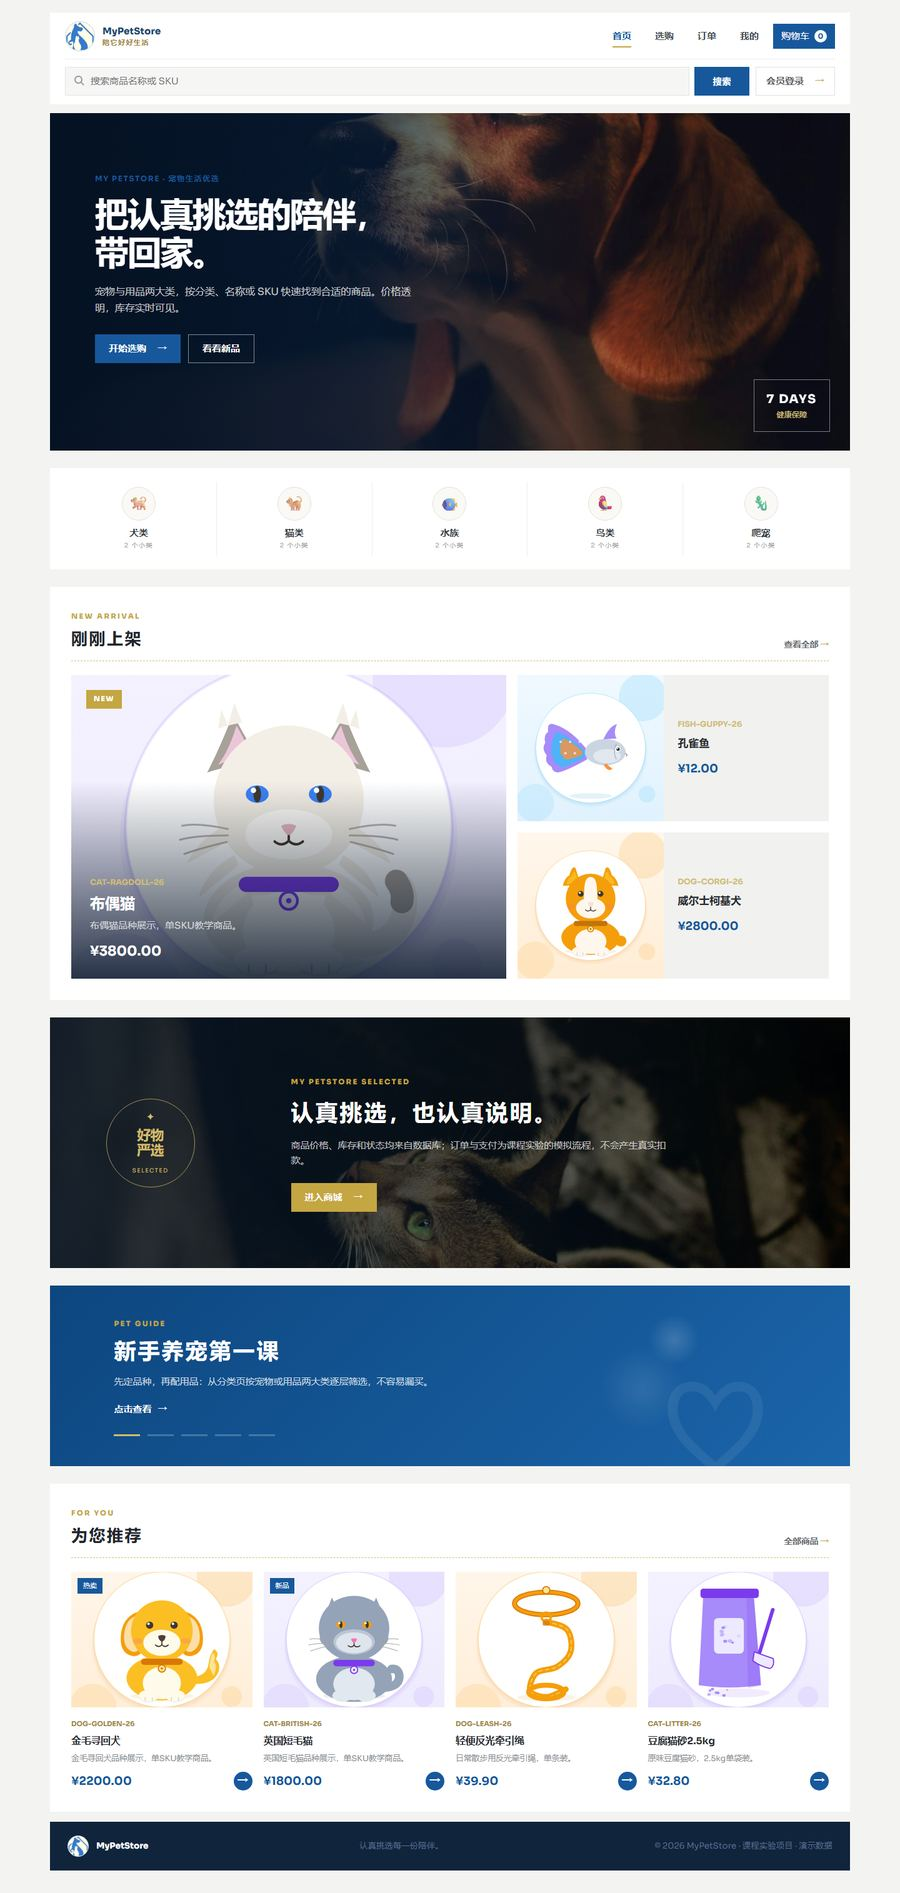
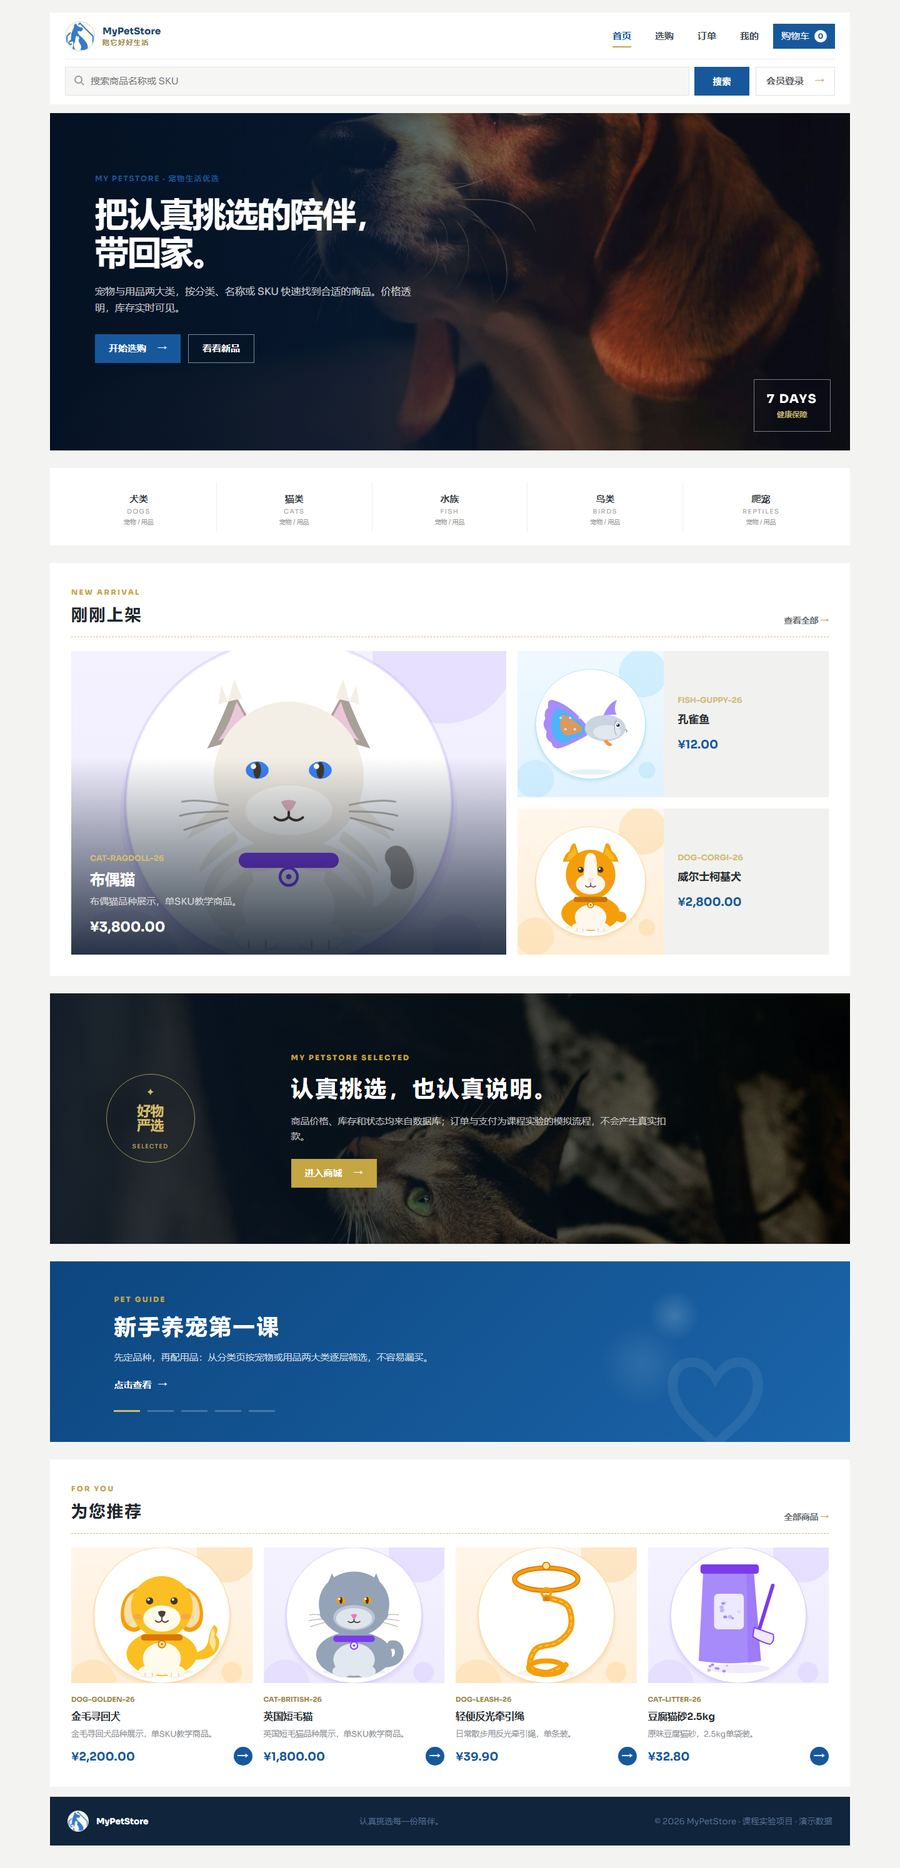
docs: 补充商品模块视频对照与集成测试说明
- 新增 docs/商品模块对照.md：三个视频的结构、五条商品查询规则、
  Main 五个小任务与本工程的逐条对照，以及有意保留的差异
- 验证记录增加 2.3 节：19 个 *IT 集成测试的清单、运行命令与通过结果
- 设计说明 5.1 补充商品模块规则落地说明；需求完成清单与视觉验收更新
  商品详情路由为 /product?id=（兼容 /product/{id}）
- README 补充集成测试命令与说明；docs/README 索引新增对照文档
- 新增第 11 条视觉问题记录：分类条 emoji 属伪造数据，改为真实 code 与二级分类名
- 更新首页截图（分类条与价格格式变化）；.gitignore 忽略 rendered* 原始截图

diff --git a/docs/商品模块对照.md b/docs/商品模块对照.md
@@ -1,0 +1,75 @@
+# 商品模块视频对照
+
+> 视频：`实验一-MyPetstore用户端-商品模块01/02/03.mp4`（共 56 分钟，4K 录屏）。
+> 视频没有字幕轨，也没有配套讲义，本文的"要求"来自画面里的幻灯片原文与老师的提示词。
+> 抽取方式：无头浏览器按时间轴抽帧 + 感知哈希去重（276 帧 → 141 个关键帧），逐帧阅读后整理。
+
+## 1. 视频讲了什么
+
+| 视频 | 内容 | 幻灯片 |
+| --- | --- | --- |
+| 01（11:45） | 三个页面（Main / Category / Product）的定位、三张表结构、五条商品查询规则、Main 的五个小任务 | 01–05 / 10 |
+| 02（12:52） | Main 落地：路由约定、静态资源路径、`*IT` 集成测试约定、实体与 Mapper 映射 | 05 / 10（重现） |
+| 03（31:39） | Main 实操：`ProductController#main`、`Main.html` 改造、分类导航 Service、新品/精选查询与 IT、MyBatis SQL 日志 | 05 / 10（重现） |
+
+**一个重要事实**：视频里的 `Category`、`Product` 页面演示是老师机器上用 `file://` 打开的
+**参考 UI 原型**（`MyPetstore用户端参考UI/HTML/*.html`），不是运行中的工程页面。
+幻灯片第 2 页明确写着"**功能以本节规则为准，原型中的占位内容将逐步调整**"，
+所以判定标准是第 4 页的五条查询规则，而不是原型里的每一个按钮。
+
+## 2. 五条商品查询规则 → 实现对照
+
+| # | 规则（幻灯片原文） | 实现 | 位置 |
+| --- | --- | --- | --- |
+| 1 | 游客可以浏览，本模块只读取数据，加入购物车留到购物车模块 | 商品/分类/详情路由都不在鉴权拦截名单内；`/cart/**`、`/orders/**` 等才要求登录 | `config/WebConfig`、`security/AuthInterceptor` |
+| 2 | 只展示上架商品，列表排除 DRAFT；访问不存在或下架商品给出不可用提示 | 列表 SQL 固定 `status='ON_SALE'`；详情对非上架商品抛 `NotFoundException`，由全局处理器渲染 404 页并显示"商品不存在或已下架。" | `ProductMapper.xml`、`ProductService#detail`、`GlobalExceptionHandler` |
+| 3 | 两级分类筛选：一级包含其下商品；二级入口默认选中对应类型，切换类型仍在所属一级范围内 | `search()` 命中二级分类时用 `typeOf()` 推出宠物/用品类型，再把 `categoryIds` 收敛到该一级分类下同类型的二级分类 | `ProductService#search`、`CategoryService#typeOf` |
+| 4 | 同一商品标识：首页、列表、详情统一用数据库商品 ID 关联，SKU 只用于展示 | 所有链接形如 `/product?id=<真实ID>`、`/category?categoryId=<真实ID>`；模板里不再出现 `?sku=` | `Main.html`、`Category.html`、`Cart.html`、`ViewOrder.html` |
+| 5 | 展示规则一致：零库存仍可展示；金额用人民币；推荐区按预定排序取上架商品 | 查询不过滤 `stock`；金额 `¥` + 两位小数 + 千分位；精选 `ORDER BY sort_order, id` | `ProductMapper.xml`、`MoneyFormatter` |
+
+## 3. Main 页五个小任务 → 实现对照
+
+| 任务 | 视频要求 | 实现 |
+| --- | --- | --- |
+| 01 实体、Mapper 与字段验证 | 映射 `Category`、`Product`，读真实记录核对字段 | `entity/Category`、`entity/Product`；`CategoryMapperIT`（5 例）、`ProductMapperIT`（4 例）连真实库核对字段映射 |
+| 02 分类导航 Service 与测试 | 一次查询，内存里组织一级 + 二级，禁止按父类逐个查询 | `CategoryService#all()` 一次 `selectAllOrdered()`，`ProductService#home()` 在内存里分组；`CategoryServiceIT` 4 例 |
+| 03 新品、精选分别查询与测试 | 新品最多 3 件（`created_at, id` 降序）；精选最多 4 件（`sort_order, id` 升序）；都只要上架商品 | `ProductMapper#selectHomeNew(3)`、`#selectHomeFeatured(4)`；`ProductServiceIT` 用 Mapper 全量读取在 Java 侧独立算期望值再比对 |
+| 04 Controller 与 Thymeleaf | 传 Model、循环渲染、处理空列表与缺图 | `HomeController#main` 传 `home`；`Main.html` 用 `th:each`/`th:if` 渲染，空列表整段不渲染，图片 `onerror` 回退 `/images/logo.png` |
+| 05 浏览器验收 | 核对数量、排序、图片、分类与商品链接 | 见 `docs/视觉验收.md` 与 `docs/screenshots/home.jpg` |
+
+## 4. 视频里的具体约定 → 本工程
+
+| 约定 | 视频原文/做法 | 本工程 |
+| --- | --- | --- |
+| 路由不带 `.html`、全小写 | `/main`、`/category`、`/product?id=` | 一致；`/`、`/index` 返回欢迎页 |
+| 商品详情用 ID 不用 SKU | "替换原 `?sku=`" | 主路由 `/product?id=`，同时保留 `/product/{id}` 兼容旧链接 |
+| 价格格式 | `¥` + 两位小数 + 千分位，`formatDecimal(...,'COMMA',...)` | `MoneyFormatter` 用 `Locale.ROOT` + `%,.2f`，输出 `¥3,800.00` |
+| 分类入口展示一级 + 二级 | `<b>一级名</b><small>CODE</small><small class="category-sub">宠物 / 用品</small>` | 同构：`node.category().name` / `.code` / `#strings.listJoin(children.![name], ' / ')` |
+| 不展示伪造内容 | 删除 NEW 静态角标、伪造 `<small>` 文案、卡片 `+` 加购、整个"本周热卖"区；"emoji 图标因 DB 无对应字段而移除" | 首页已无热卖区、无 NEW/热卖角标、无 `+`；分类条改为真实 `code` 与二级名称，删掉了硬编码 emoji 映射 |
+| 缺图兜底 | `onerror="this.onerror=null;this.src='/images/logo.png'"` | 首图/小卡/推荐卡都加了同样的 `onerror`，服务端另有 `coverImage == null` 兜底 |
+| MyBatis SQL 日志 | `mybatis-plus.configuration.log-impl=...Slf4jImpl` + `logging.level.org.csu.mypetstore.mapper=debug` | 写进 `application-dev.yaml` |
+| 集成测试命名 | `*IT` + `@SpringBootTest` + `@ActiveProfiles("dev")` + `@Transactional` 只读回滚 | `CategoryMapperIT`、`ProductMapperIT`、`CategoryServiceIT`、`ProductServiceIT`，共 19 例 |
+| 分层边界 | Controller 只"调 Service → 塞 Model → 返回视图名"，查询规则全在 Service | 一致：`HomeController` 只调用 `ProductService#home()` |
+
+## 5. 已知差异（有意保留）
+
+| 视频 | 本工程 | 原因 |
+| --- | --- | --- |
+| 只做 Main，明确"暂不实现 Category 筛选与 Product 详情" | 三个页面（含分类筛选、搜索、分页、详情相册）都已实现 | 实验一按 PRD 交付 P0 全部功能；视频是分阶段教学，Main 只是第一站 |
+| 包结构 `controller / entity / mapper / service` | `web / entity / mapper / service / security / config` | `web` 更贴切地表示"Web 层"，且本工程多了鉴权与 CSRF 过滤器；不影响分层语义 |
+| 登录路由 `/signon` | `/login` | 本工程登录还承担 `returnUrl` 回跳与 CSRF 校验 |
+| 老师现场把 `pets/`、`supplies/` 素材拷进 `static/images` | 素材已随仓库提供，且 40 张封面由 `scripts/generate_product_art.py` 生成 | 避免"两栏全破图"，可直接复现 |
+
+## 6. 复现验证
+
+```powershell
+# 只跑单元测试（不需要数据库）：43 个
+mvn -B -f MyPetStore-SSM\pom.xml test
+
+# 集成测试需要 3307 上的 MySQL 与演示数据：19 个
+$env:DB_PORT="3307"
+mvn -B -f MyPetStore-SSM\pom.xml test "-Dtest=CategoryMapperIT,ProductMapperIT,CategoryServiceIT,ProductServiceIT"
+```
+
+`*IT` 不在 Surefire 默认匹配范围内，所以 `mvn test` 不会因为缺少数据库而失败；
+这也正是视频里"IT 依赖真实外部数据库"的约定。

diff --git a/docs/需求完成清单.md b/docs/需求完成清单.md
@@ -1,4 +1,4 @@
-# 需求完成清单
+# 需求完成清单
 
 基线：`MyPetStore-PRD.pdf` V1.1；页面/参数/状态以 PRD 第 6、7 章为准。本表把需求映射到页面、核心代码与验证证据，便于验收时逐项定位。
 
@@ -16,7 +16,7 @@
 | FR-G-00 欢迎入口与通用展示 | `/`、`/index` | `web/HomeController#index`、`templates/index.html`、`fragments/layout.html` | MockMvc `HomeControllerTest`；手工访问 | P0 | 已实现/自动验证/手工验证 |
 | FR-G-01 首页 Main | `/main` | `HomeController#main`、`ProductService#home`、`templates/Main.html` | `HomeControllerTest`；手工验证分类/新品/精选 | P0 | 已实现/自动验证/手工验证 |
 | FR-G-02 分类列表与搜索 | `/category` | `web/ProductController#category`、`ProductService#search`、`CategoryService`、`templates/Category.html` | `ProductServiceTest` 7 例；手工验证一级/二级/类型/排序/关键词/分页 | P0 | 已实现/自动验证/手工验证 |
-| FR-G-03 商品详情 | `/product/{id}` | `ProductController#detail`、`ProductService#detail`、`templates/Product.html` | `ProductServiceTest`；手工验证上架/下架/零库存/无相册 | P0 | 已实现/自动验证/手工验证 |
+| FR-G-03 商品详情 | `/product?id={id}`（兼容 `/product/{id}`） | `ProductController#detail`、`ProductService#detail`、`templates/Product.html` | `ProductServiceTest`；手工验证上架/下架/零库存/无相册 | P0 | 已实现/自动验证/手工验证 |
 | FR-U-01 登录与退出 | `/login`、`POST /logout` | `web/AuthController`、`service/AuthService`、`templates/SignonForm.html` | `AuthServiceTest` 7 例、`AuthControllerTest` 6 例；手工 alice/disabled/admin | P0 | 已实现/自动验证/手工验证 |
 | FR-U-02 身份与访问检查 | 受保护 `/cart/**`、`/checkout/**`、`/orders/**`、`/payment/**`、`/profile/**` | `security/AuthInterceptor`、`config/WebConfig`、`GlobalExceptionHandler` | `AuthControllerTest`；手工未登录跳转、越权订单、禁用后请求 | P0 | 已实现/自动+手工验证 |
 | FR-U-03 个人资料（P1） | `/profile` | `web/ProfileController`、`service/ProfileService`、`templates/EditProfile.html` | 手工修改显示名/邮箱/电话、刷新后生效 | P1 | 已实现/手工验证 |

diff --git a/docs/验证记录.md b/docs/验证记录.md
@@ -35,7 +35,6 @@ mvn -B -s .tools\settings.xml -f MyPetStore-admin\pom.xml test
 ```
 
 ### 2.1 用户端：43 个测试
-
 | 测试类 | 数量 | 覆盖 |
 | --- | ---: | --- |
 | `common/PasswordPolicyTest` | 7 | 空、长度、UTF-8 72 字节、空白、字符类别 |
@@ -62,6 +61,27 @@ mvn -B -s .tools\settings.xml -f MyPetStore-admin\pom.xml test
 | **合计** | **24** | 全部通过：`Failures: 0, Errors: 0` |
 
 总计 **67 个自动化测试**，不需要数据库。
+
+### 2.3 用户端集成测试：19 个（需要数据库）
+
+按课程视频的约定，依赖真实外部数据库的测试用 `*IT` 命名、加 `@SpringBootTest`、
+`@ActiveProfiles("dev")`、`@Transactional`（执行后回滚，不写坏演示数据）：
+
+```powershell
+$env:DB_HOST="127.0.0.1"; $env:DB_PORT="3307"; $env:DB_NAME="MyPetStore"
+mvn -B -f MyPetStore-SSM\pom.xml test "-Dtest=CategoryMapperIT,ProductMapperIT,CategoryServiceIT,ProductServiceIT"
+```
+
+| 测试类 | 数量 | 覆盖 |
+| --- | ---: | --- |
+| `mapper/CategoryMapperIT` | 5 | 二级/一级映射、未命中返回 null、全量排序、按编码与父级查询 |
+| `mapper/ProductMapperIT` | 4 | 商品字段映射、首页新品 ≤3、精选 ≤4 且按 sort_order 升序、零库存仍可读 |
+| `service/CategoryServiceIT` | 4 | 一次查询取 15 条、内存分组 5×2、宠物/用品判定、缺失分类抛异常 |
+| `service/ProductServiceIT` | 6 | 首页三栏、新品/精选与 Java 侧独立算出的期望值一致、列表排除下架、二级分类默认选中类型、详情拒绝下架商品 |
+| **合计** | **19** | 全部通过：`Failures: 0, Errors: 0`（2026-11-17 实测） |
+
+Surefire 默认只匹配 `*Test`，所以 `mvn test` 不会因为缺少数据库而失败；这正是 `*IT` 后缀的用意，
+与课程视频里"集成测试单独命名、单独执行"的做法一致。
 
 ## 3. 数据库与静态资源
 

diff --git a/docs/视觉验收.md b/docs/视觉验收.md
@@ -37,6 +37,7 @@ node scripts/capture-pages.mjs rendered
 | 8 | 订单卡片缩略图全是放大的 logo | `OrderRow` 没有封面字段，模板只能回退到 `logo.png` | mapper 增加 `cover_image_snapshot` 子查询，`OrderRow.coverImage` 绑定首件商品封面快照 |
 | 9 | 购物车/订单/商品详情/账户页整体错位 | 模板 `<body>` 缺页面级 class，主体缺 `.mpa-shell xxx-shell` 外层，设计稿大量选择器选不中 | 逐页按参考稿补齐 body class 与 shell，DOM 结构与设计稿对齐 |
 | 10 | 结算页、支付页宽度与其他页面不一致 | 这两页是本工程新增的，没有套 `.mpa-shell` | 补 shell，结算步骤条改用设计稿的 `.cart-steps` |
+| 11 | 首页分类条用硬编码 emoji 当图标 | 数据库没有图标字段，"🐕/🐈/🐠" 是 `CategoryService` 里手写的假数据 | 按课程视频改为真实数据：一级名称 + `code` + 二级分类名，删掉 emoji 映射；同时去掉 NEW/热卖静态角标，价格统一千分位 `¥3,800.00` |
 
 ## 3. 逐页结果
 
@@ -47,7 +48,7 @@ node scripts/capture-pages.mjs rendered
 | 入口页 | `/` | [index.jpg](screenshots/index.jpg) |
 | 首页 | `/main` | [home.jpg](screenshots/home.jpg) |
 | 全部商品 | `/category` | [category.jpg](screenshots/category.jpg) |
-| 商品详情 | `/product/{id}` | [product.jpg](screenshots/product.jpg) |
+| 商品详情 | `/product?id={id}`（兼容 `/product/{id}`） | [product.jpg](screenshots/product.jpg) |
 | 登录页 | `/login` | [login.jpg](screenshots/login.jpg) |
 | 购物车 | `/cart` | [cart.jpg](screenshots/cart.jpg) |
 | 确认订单 | `/checkout` | [checkout.jpg](screenshots/checkout.jpg) |

diff --git a/README.md b/README.md
@@ -105,9 +105,12 @@ mvn test
 # 管理端
 cd MyPetStore-admin
 mvn test
+
+# 用户端集成测试（*IT，需要 3307 上的 MySQL 与演示数据）
+mvn test "-Dtest=CategoryMapperIT,ProductMapperIT,CategoryServiceIT,ProductServiceIT"
 ```
 
-用户端 43 个、管理端 24 个测试，共 67 个，均不依赖数据库。数据库导入、两端启动、用户端购物/下单/支付/取消、管理端分类/商品/订单/用户操作的手工 E2E 步骤与结果见 [docs/验证记录.md](docs/验证记录.md)；`scripts/user_smoke.py` 与 `scripts/admin_smoke.py` 可重复执行两端只读 smoke。
+用户端 43 个、管理端 24 个测试，共 67 个，均不依赖数据库；另有 19 个 `*IT` 集成测试（分类/商品 Mapper 与 Service，连真实库、事务回滚），Surefire 默认不匹配 `*IT`，需要显式指定 `-Dtest=` 运行。数据库导入、两端启动、用户端购物/下单/支付/取消、管理端分类/商品/订单/用户操作的手工 E2E 步骤与结果见 [docs/验证记录.md](docs/验证记录.md)；`scripts/user_smoke.py` 与 `scripts/admin_smoke.py` 可重复执行两端只读 smoke。
 
 ## 视觉验收
 
@@ -133,6 +136,7 @@ node scripts/capture-pages.mjs rendered
 - [验证记录](docs/验证记录.md)
 - [视觉验收](docs/视觉验收.md)
 - [视频步骤对照](docs/视频对照.md)
+- [商品模块对照](docs/商品模块对照.md)
 - [提交记录](docs/提交记录.md)
 
 ## 说明

diff --git a/docs/README.md b/docs/README.md
@@ -7,6 +7,7 @@
 | [验证记录](验证记录.md) | AC-01—AC-32、P1 AC-33/34 的操作、预期、实际结果与证据 | 已完成（含未自动化边界） |
 | [视觉验收](视觉验收.md) | 页面截图、设计稿比对要点、本轮修复的 10 类渲染问题 | 已完成（含未覆盖项） |
 | [视频步骤对照](视频对照.md) | 课程视频 8 个步骤与本项目文件/页面的对应 | 已完成 |
+| [商品模块对照](商品模块对照.md) | 商品模块三个视频（Main/Category/Product）的规则与实现对照 | 已完成 |
 | [提交记录](提交记录.md) | 每个提交的清单、哈希、验证结果 | 提交后回填 |
 
 验证使用 `database/02-schema-with-demo.sql` 的演示数据；手工步骤、账号、订单号与结果见验证记录。最终提交前保持文档与代码、SQL、页面一致。
